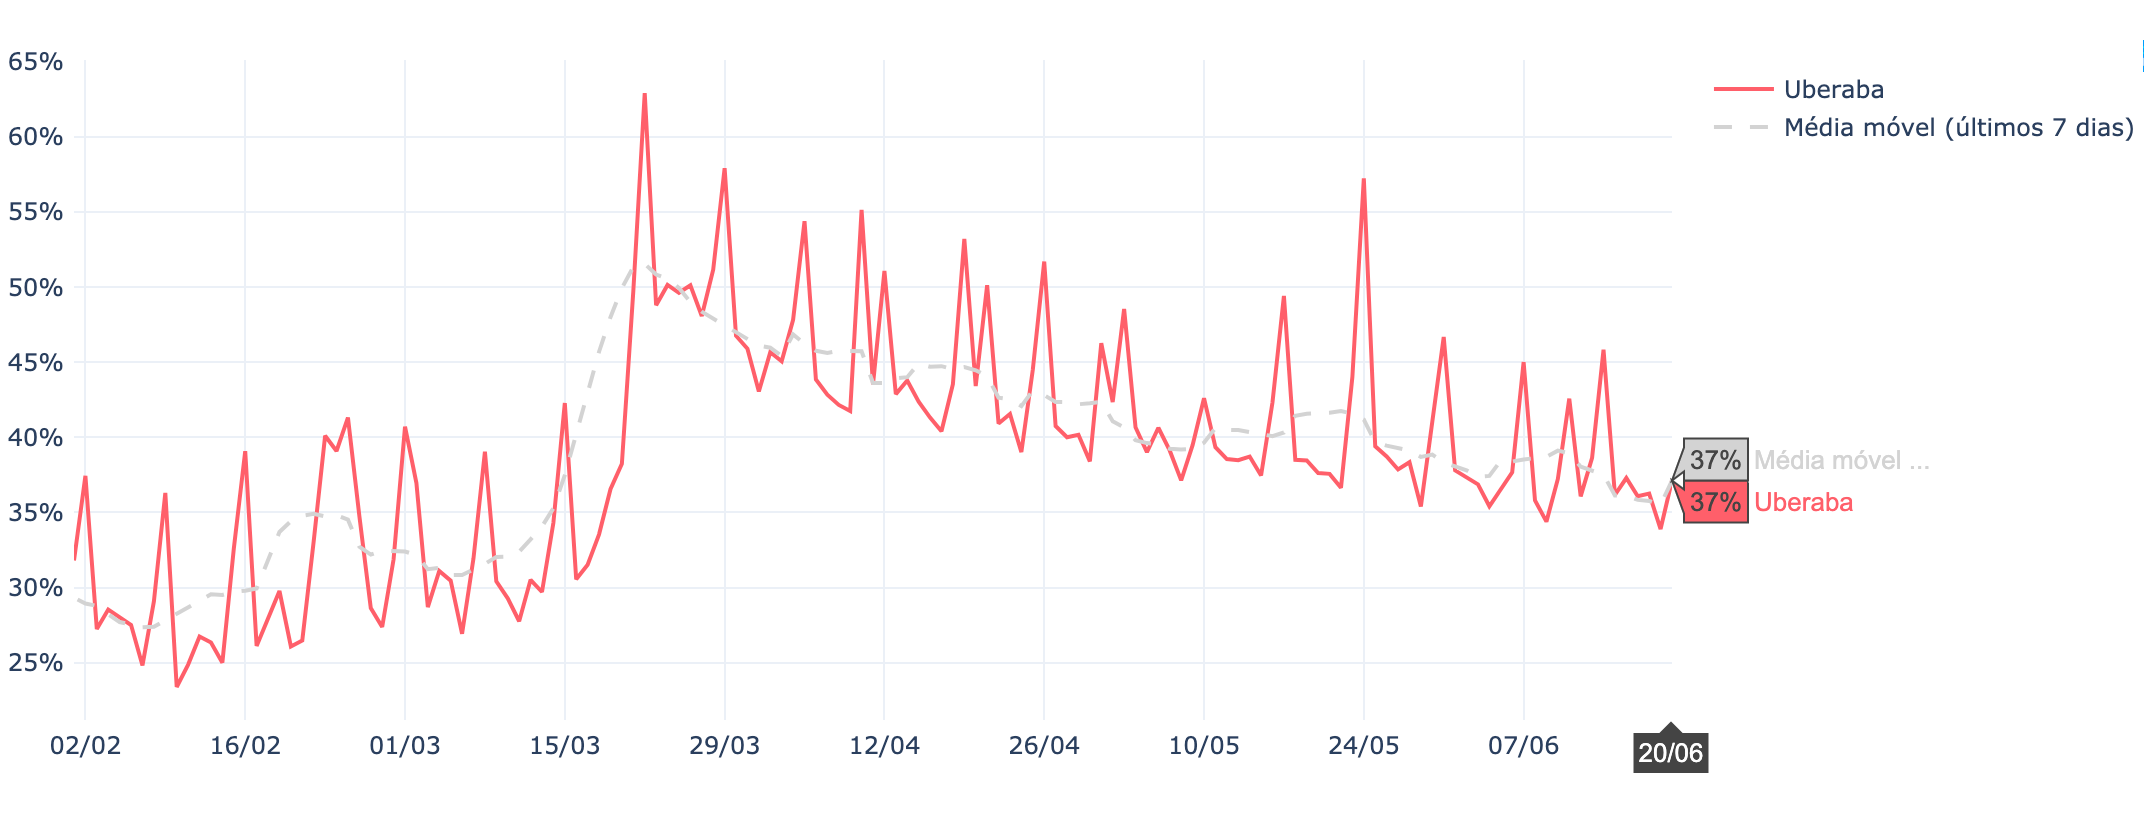
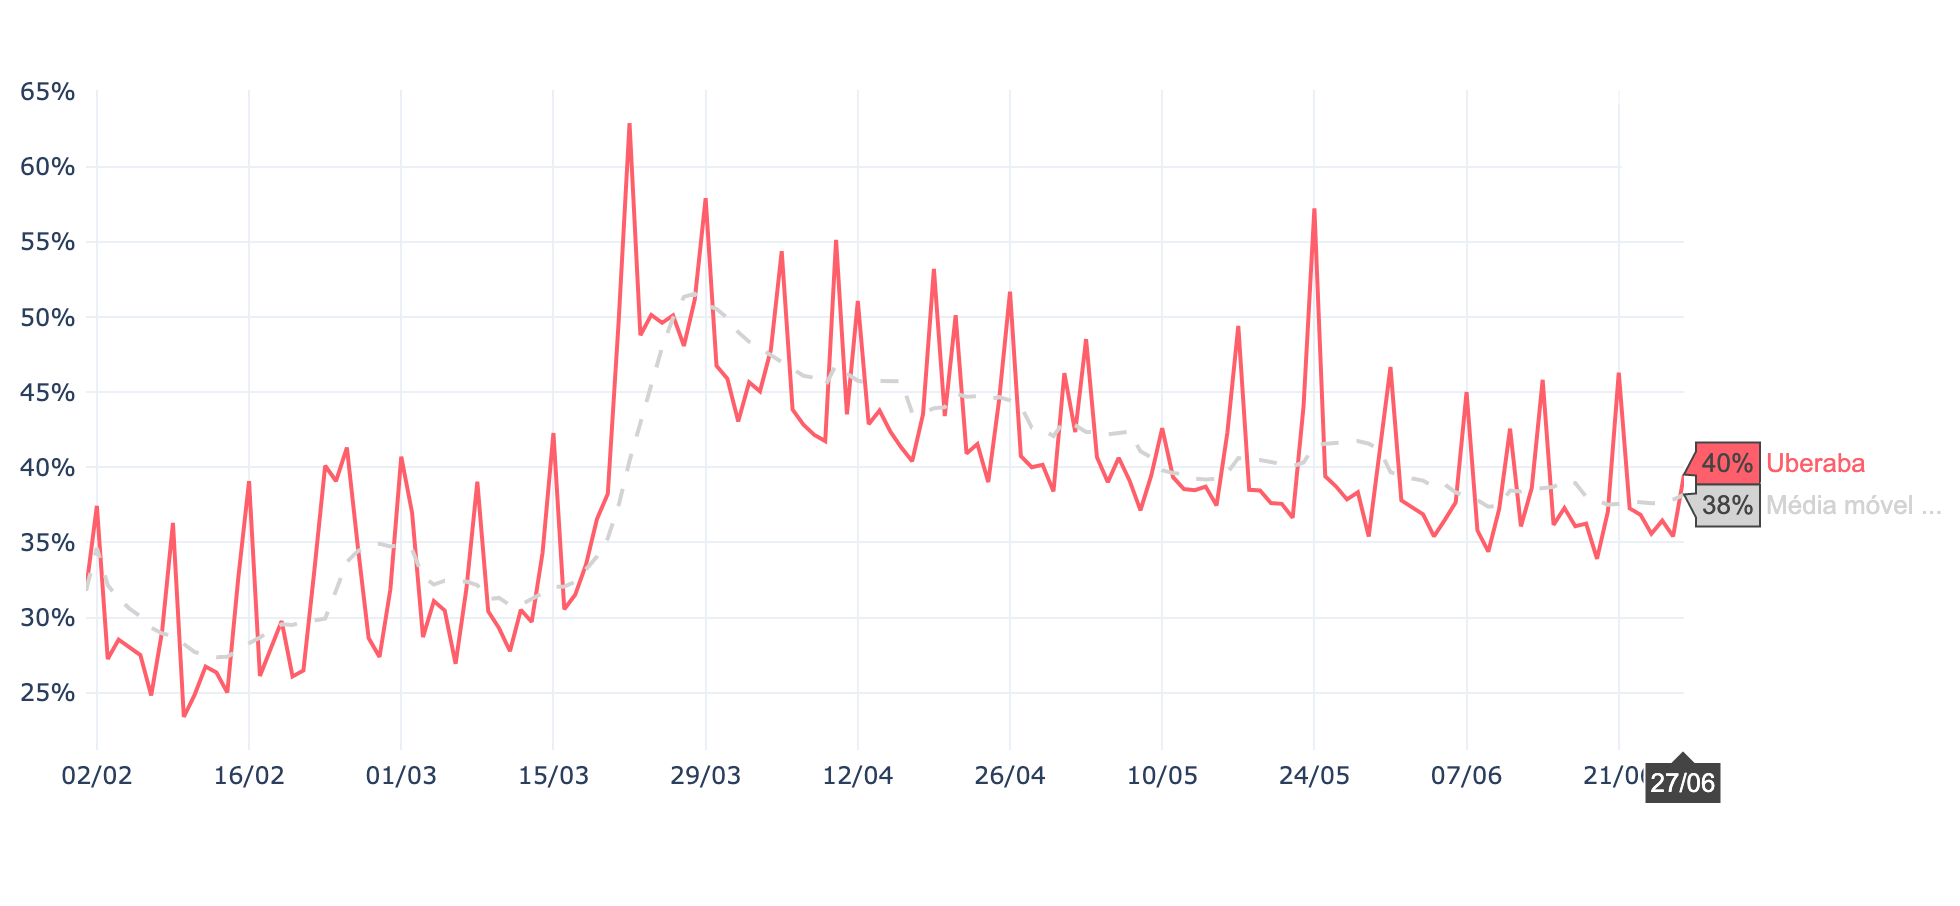
atualizacao informacoes

diff --git a/index.html b/index.html
@@ -139,8 +139,8 @@
 
         <p class="text-justify mt-3">
             <ul>
-            <li>No dia de hoje (20/06/2020), acumulamos 546 casos notificados.</li>
-            <li>Projeção para dia 25 de Junho é de 609 podendo chegar até 740 casos notificados.</li>
+            <li>No dia de hoje (27/06/2020), acumulamos 723 casos notificados.</li>
+            <li>Projeção para dia 02 de Julho é de 781 podendo chegar até 925 casos notificados.</li>
             <li>Pontos pretos: número de casos confirmados a cada dia.</li>
             <li>Pontos laranjas: a previsão para os próximos 5 dias.</li>
             </ul>
@@ -186,7 +186,7 @@ Todos os dados foram obtidos da própria Secretária Municipal de Saúde de Uber
 
         <p class="text-justify mt-3">
             <ul>
-            Uma pessoa infectada está contaminando 1.27 pessoas.
+            Uma pessoa infectada está contaminando 1.33 pessoas.
             </ul>
         </p>
 
@@ -200,7 +200,7 @@ O número Reprodutivo efetivo (Re) é a média de pessoas contaminadas por um in
         </div>
 
         <p class="text-justify mt-3">
-A Taxa de isolamento média de Uberaba é 37%. O Índice de Isolamento Social foi desenvolvido pela Inloco para auxiliar no combate à pandemia da COVID-19 ao acompanhar o coronavírus no Brasil.
+A Taxa de isolamento média de Uberaba é 38%. O Índice de Isolamento Social foi desenvolvido pela Inloco para auxiliar no combate à pandemia da COVID-19 ao acompanhar o coronavírus no Brasil.
         </p>
         <img src="./web/municipios/MG/Uberaba/Isolamentouberaba.png" class="img-fluid" style="max-height:600px;" alt="Gŕafico mostrando o número de casos acumulados na cidade de Uberaba.">
         <p class="text-center mt-3">
